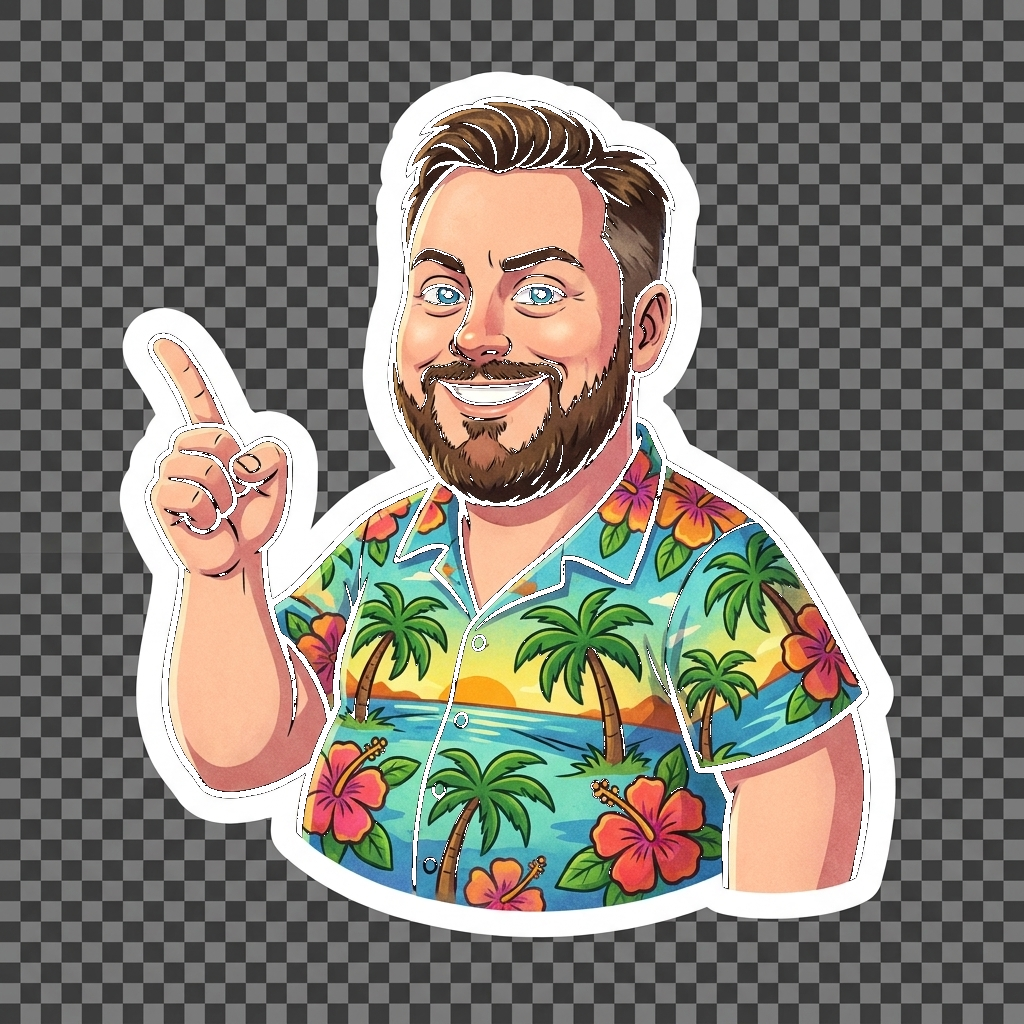
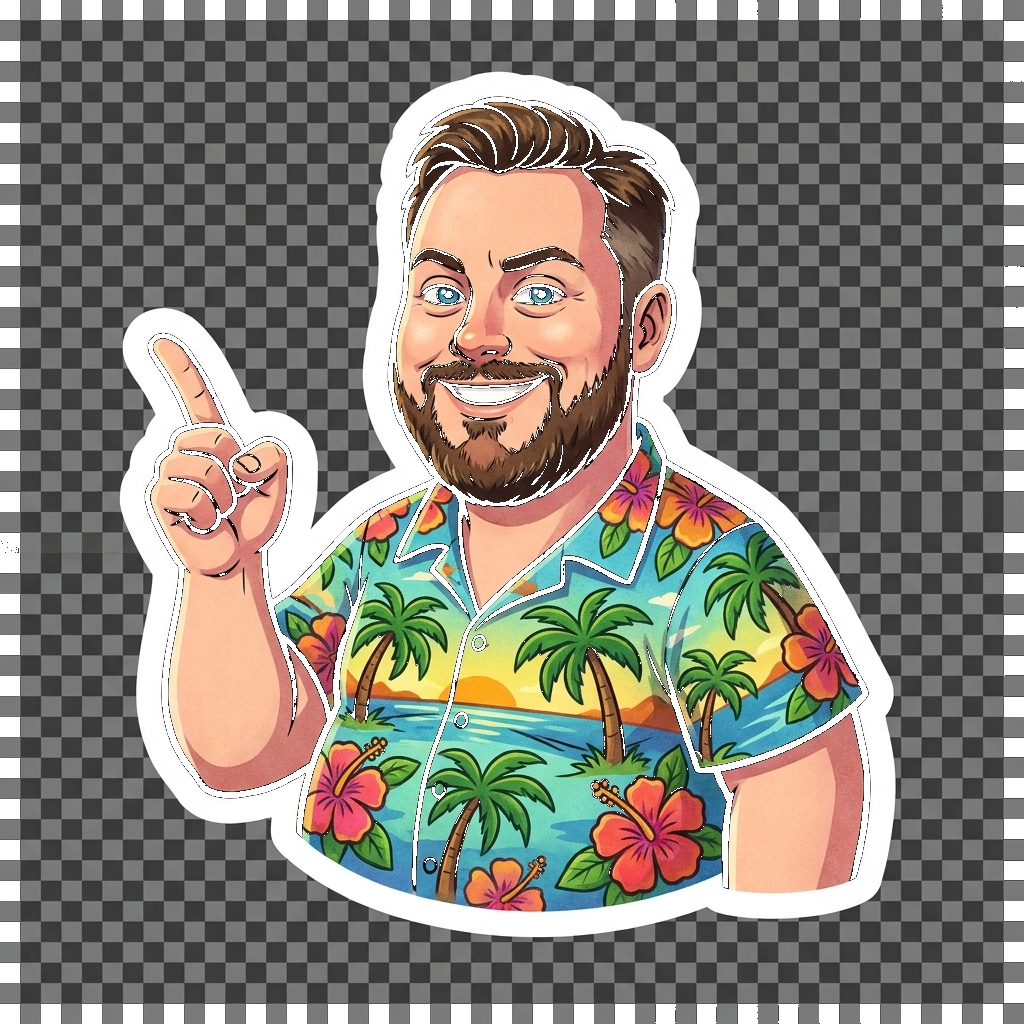
popup: center screen, content-sized bubble, wag rock, he speaks now

Changed region(s): [[0.0, 0.0, 1.0, 1.0]]

diff --git a/Sources/blurpy/Popup.swift b/Sources/blurpy/Popup.swift
@@ -1,13 +1,15 @@
 import Cocoa
 
 /// Borderless, transparent, always-on-top Clippy-style popup: character floating
-/// on the desktop with a comic speech bubble. Springs up from below the screen,
-/// slides back down on dismiss. One at a time; extras queue (cap 3).
+/// on the desktop with a comic speech bubble, center screen. Springs up from below
+/// with overshoot, rocks back and forth (the wag), SPEAKS the message, slides back
+/// down on dismiss. One at a time; extras queue (cap 3).
 @MainActor
 final class Popup {
     private var panel: NSPanel?
     private var queue: [(image: NSImage?, text: String)] = []
     private var dismissTimer: Timer?
+    private let speaker = NSSpeechSynthesizer()
 
     func show(_ pitch: Pitch) {
         let imageName = pitch.cowboy ? "blurpy-cowboy" : "blurpy"
@@ -38,7 +40,15 @@ final class Popup {
 
     private func present(image: NSImage?, text: String) {
         let width: CGFloat = 430
-        let height: CGFloat = 210
+        let font = NSFont.systemFont(ofSize: 15, weight: .semibold)
+        let maxTextW = width - 132 - 28
+        let textH = ceil((text as NSString).boundingRect(
+            with: NSSize(width: maxTextW, height: .greatestFiniteMagnitude),
+            options: [.usesLineFragmentOrigin, .usesFontLeading],
+            attributes: [.font: font]
+        ).height)
+        let height = max(150, textH + 26 + 56)
+
         let panel = NSPanel(
             contentRect: .init(x: 0, y: 0, width: width, height: height),
             styleMask: [.borderless, .nonactivatingPanel],
@@ -54,7 +64,8 @@ final class Popup {
         let click = ClickView { [weak self] in self?.dismiss() }
         click.frame = NSRect(x: 0, y: 0, width: width, height: height)
 
-        let imageView = NSImageView(frame: NSRect(x: 10, y: 4, width: 120, height: 120))
+        let imageRect = NSRect(x: 10, y: 4, width: 120, height: 120)
+        let imageView = NSImageView(frame: imageRect)
         imageView.image = image
         imageView.imageScaling = .scaleProportionallyUpOrDown
         let shadow = NSShadow()
@@ -62,6 +73,20 @@ final class Popup {
         shadow.shadowBlurRadius = 6
         shadow.shadowOffset = .init(width: 0, height: -2)
         imageView.shadow = shadow
+        imageView.wantsLayer = true
+        if let layer = imageView.layer {
+            // pivot near the bottom so the rock reads as a scolding wag
+            layer.anchorPoint = CGPoint(x: 0.5, y: 0.05)
+            layer.frame = imageRect
+            let rock = CABasicAnimation(keyPath: "transform.rotation.z")
+            rock.fromValue = -0.10
+            rock.toValue = 0.10
+            rock.duration = 0.25
+            rock.autoreverses = true
+            rock.repeatCount = .infinity
+            rock.timingFunction = CAMediaTimingFunction(name: .easeInEaseOut)
+            layer.add(rock, forKey: "wag")
+        }
         click.addSubview(imageView)
 
         let bubble = BubbleView(frame: NSRect(x: 118, y: 26, width: width - 132, height: height - 44))
@@ -69,7 +94,7 @@ final class Popup {
 
         let label = NSTextField(wrappingLabelWithString: text)
         label.frame = bubble.bounds.insetBy(dx: 14, dy: 12)
-        label.font = .systemFont(ofSize: 15, weight: .semibold)
+        label.font = font
         label.textColor = .black
         label.isBezeled = false
         label.isEditable = false
@@ -81,7 +106,7 @@ final class Popup {
             print("[blurpy] no screen — popup swallowed")
             return
         }
-        let final = NSPoint(x: screen.maxX - width - 24, y: screen.minY + 12)
+        let final = NSPoint(x: screen.midX - width / 2, y: screen.midY - height / 2)
         panel.setFrameOrigin(NSPoint(x: final.x, y: screen.minY - height))
         panel.alphaValue = 1
         panel.orderFrontRegardless()
@@ -91,6 +116,8 @@ final class Popup {
         slide(panel, toY: final.y, duration: 0.5, ease: backOutEasing) { [weak panel] in
             if let panel { print("[blurpy] settled at \(panel.frame)") }
         }
+        speaker.stopSpeaking()
+        speaker.startSpeaking(text)
         dismissTimer = Timer.scheduledTimer(withTimeInterval: 25, repeats: false) { [weak self] _ in
             Task { @MainActor in self?.dismiss() }
         }
@@ -98,6 +125,7 @@ final class Popup {
 
     private func dismiss() {
         dismissTimer?.invalidate()
+        speaker.stopSpeaking()
         guard let panel, let screen = (NSScreen.main ?? NSScreen.screens.first)?.visibleFrame else { return }
         slide(panel, toY: screen.minY - panel.frame.height, duration: 0.3, ease: easeInCubic) { [weak self] in
             panel.close()
@@ -124,7 +152,6 @@ final class Popup {
             }
         }
     }
-
 }
 
 /// Timer isn't Sendable; we know it's confined to the main runloop.

diff --git a/Sources/blurpy/Classifier.swift b/Sources/blurpy/Classifier.swift
@@ -62,6 +62,7 @@ struct PitchSheet: Sendable {
 /// Pure local regex — no LLM needed, fires even without an API key.
 enum Nedry {
     static let captions = [
+        "ah ah ah. you shouldn't be using devin.",
         "ah ah ah. you didn't say the magic word. the magic word was 'TARS'.",
         "ah ah ah. devin? in THIS economy? @pi-tars is right there.",
         "ah ah ah. outsourcing to devin while TARS collects dust. noted. NOTED.",
